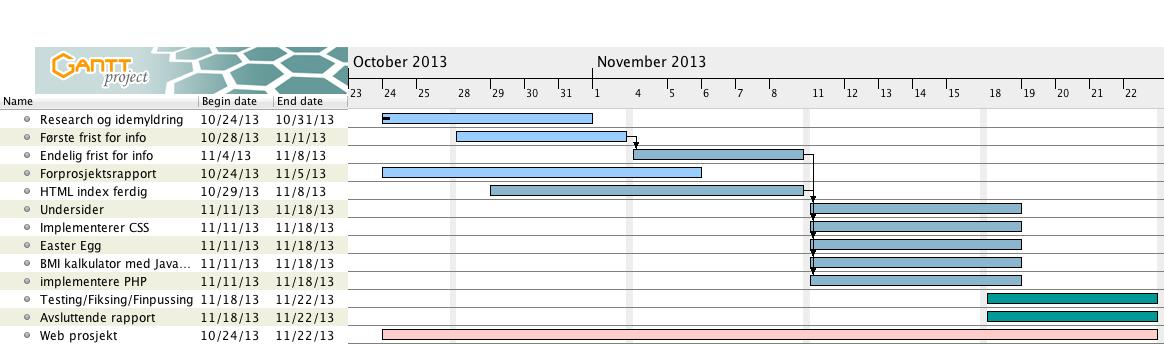
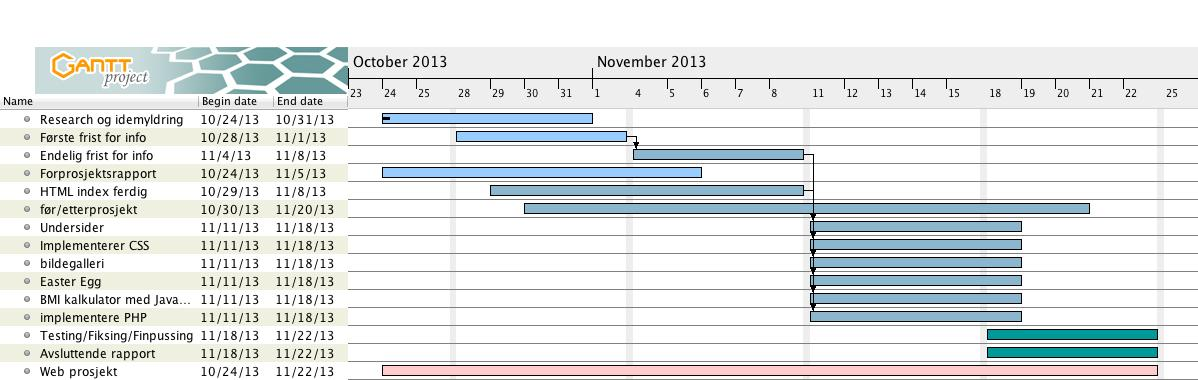
endret på milepælsplan og oppdater gantt diagram

diff --git a/Forprosjektrapport/forprosjekt.html b/Forprosjektrapport/forprosjekt.html
@@ -87,8 +87,7 @@
 		</p>
 
 		<h2>Milepælsplan - hva skal være ferdig når?</h2>
-		<p>Frist for å ha samlet inn hovedinnholdet til siden er satt til 2. november. Dvs bilder og tekst. Mer informasjon kan legges til underveis men ikke senere enn 9. november. Vår index-side (hoved-HTML) har vi tenkt skal ha samme frist som samling av innholdet, da vi fortløpene vil jobbe med denne, som da og vil gjelde for våre undersider, som fortløpende skal stå ferdig, men endelig frist er også her 9. november.</p>
-		<p>Når innholdet er ferdig innen 9. november starter vi å jobbe med CSS og å jobbe videre med endelig logo - TTFS, som vi skal ha ferdig innen 18. november. Videre vil vi starte med den avsluttende rapporten etter fullført HTML og CSS, som har samme frist som innleveringen av selve prosjektet den 24. november.</p>
+		<p>Innsamling av hovedbolken av materialet, bilder og tekst skal samles inn innen 2.november. Siste rest av materialet skal være inne innen 9.november. 29.Oktober begynte utformingen av HTML- hovedsiden. Denne skal være ferdigstilt 9 november. Denne dagen begynner jobb med undersider, implementering av CSS og PHP, jobbing med Easter-egg, BMI-kalkulator og bildegalleri. Disse skal være ferdigstilt 18. November. Nå begynner 'avslutningsfasen' 18 til 24 November. prosess med testing, fiksing og finjustering. I denne perioden skrives også sluttrapporten.</p>
 
 		<img src="img/DiagramForWeb2013.jpg" width="840" alt="Gantt-diagram" >
 
